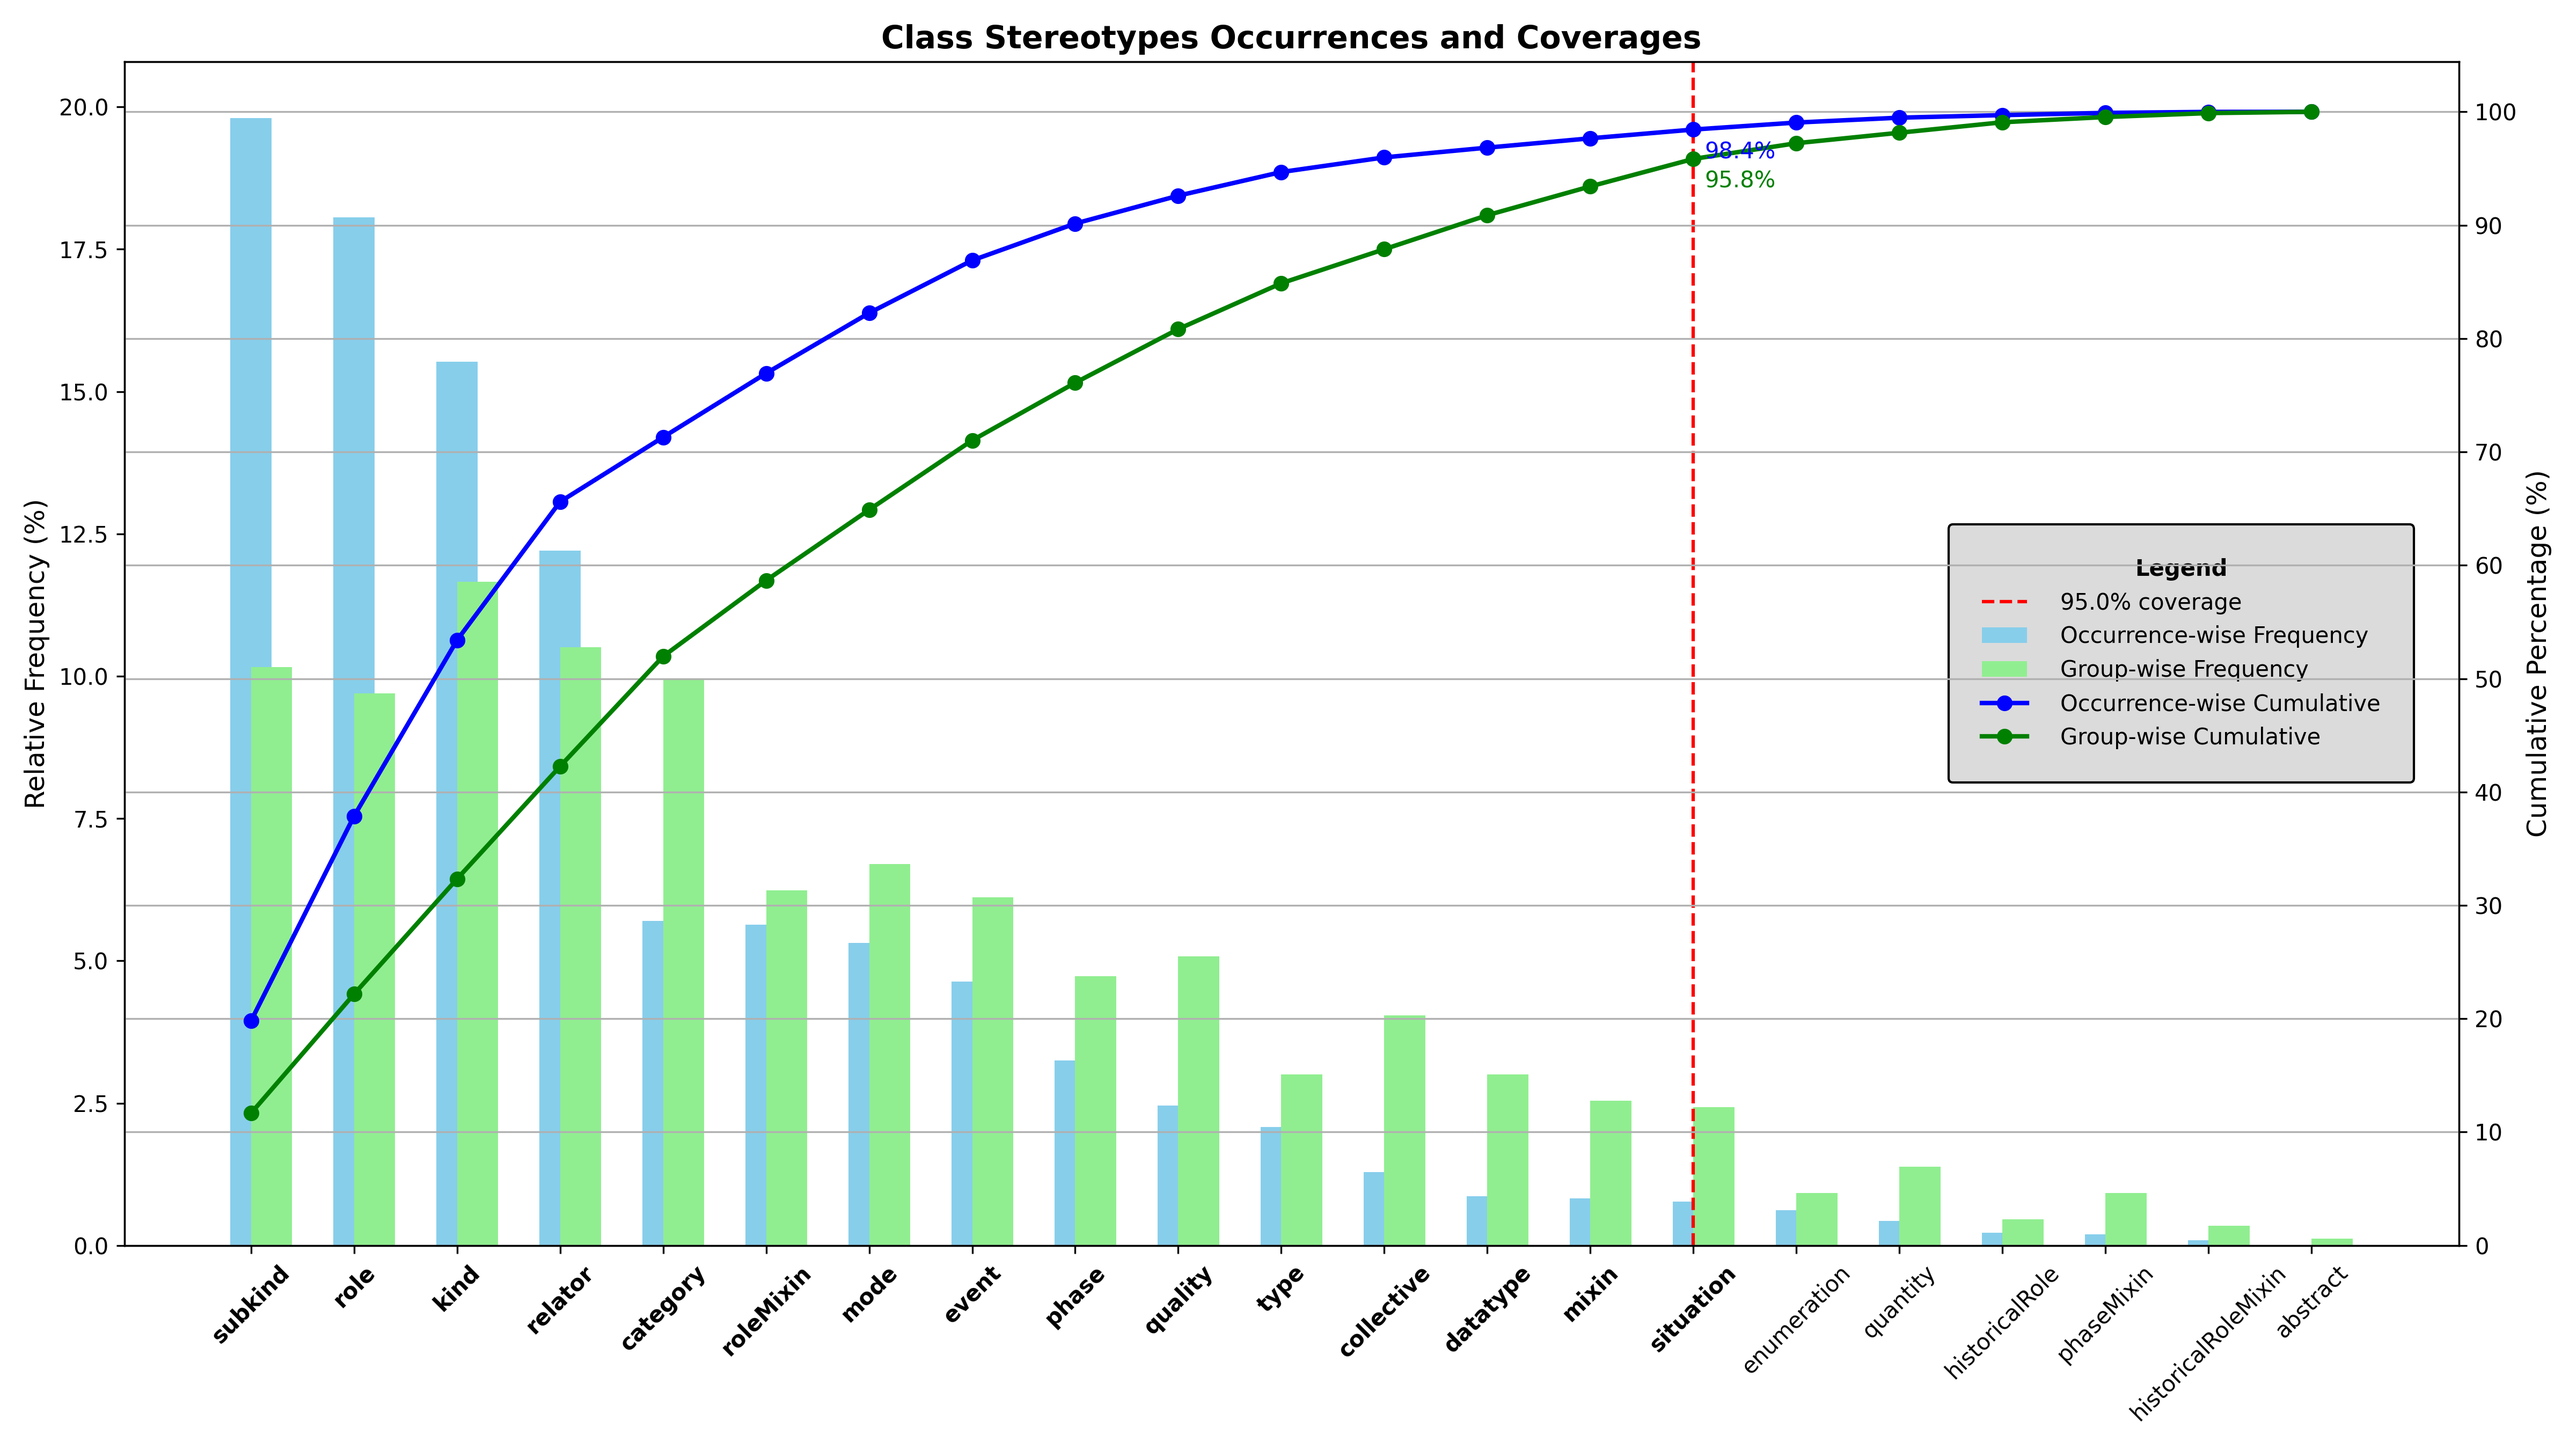
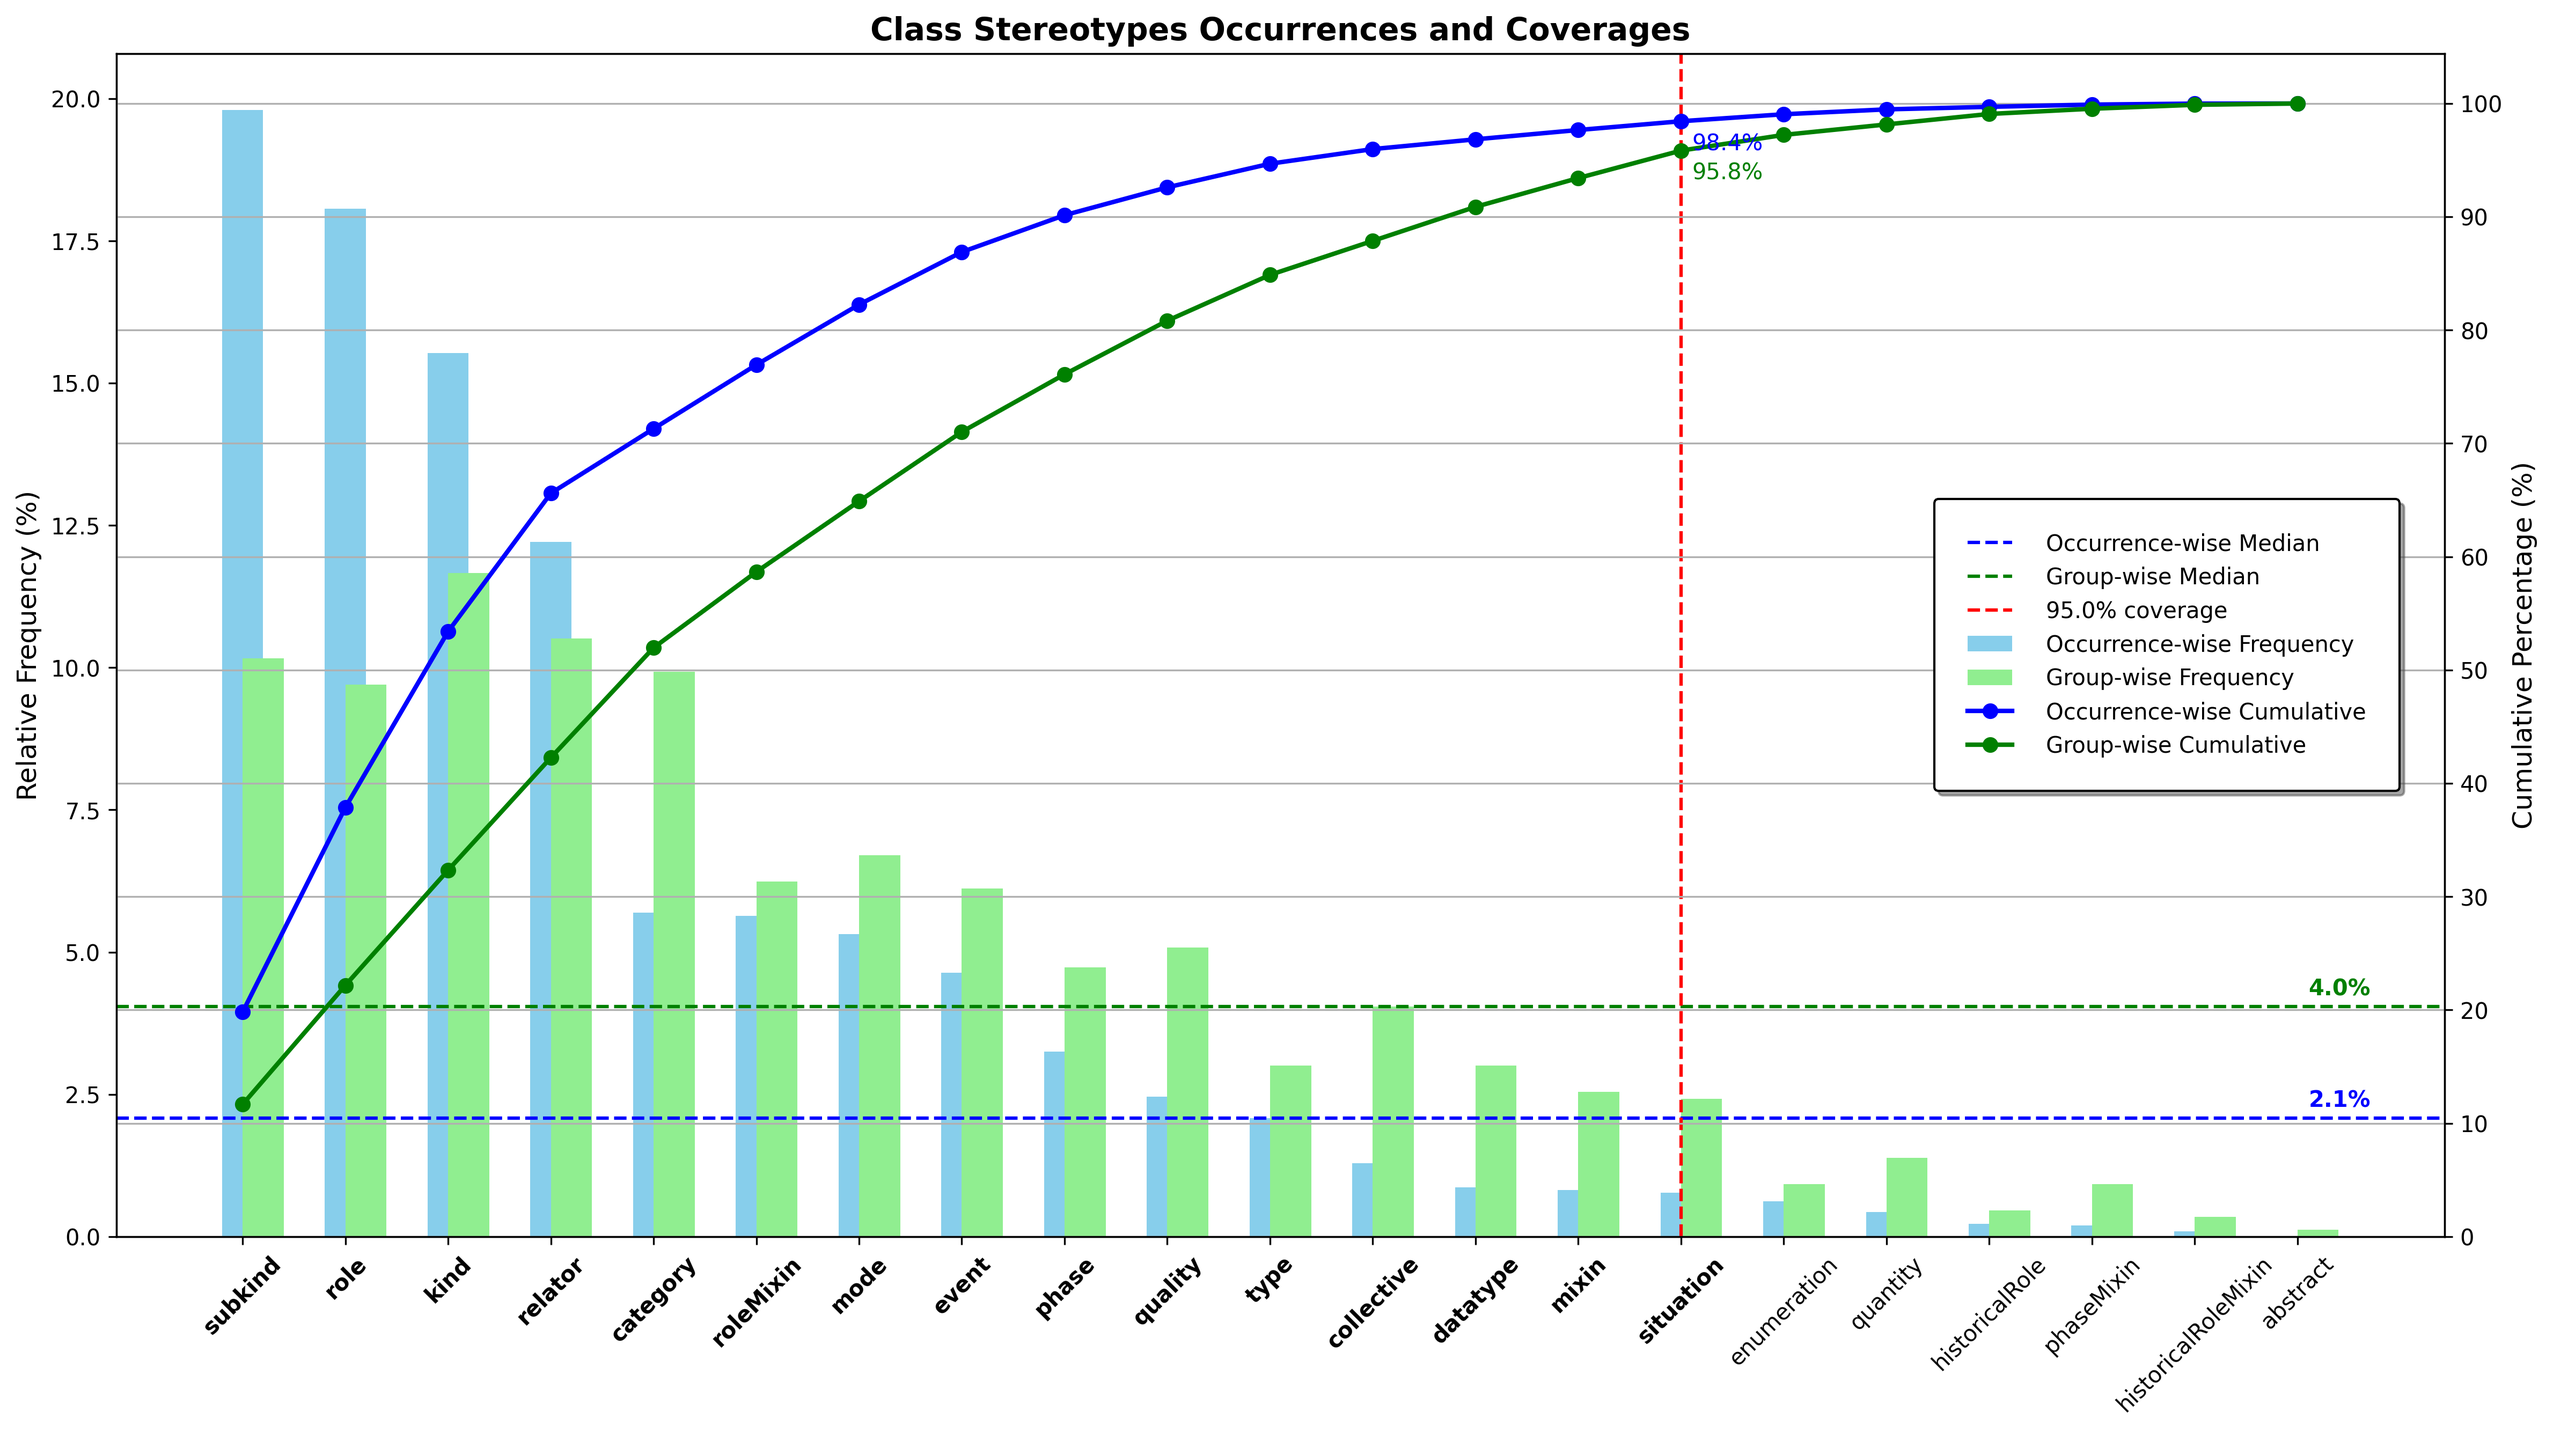
Medians being correctly plot.

diff --git a/src/visualization/pareto.py b/src/visualization/pareto.py
@@ -1,8 +1,8 @@
 import os
 
 import matplotlib.pyplot as plt
+import numpy as np
 import pandas as pd
-import seaborn as sns
 from loguru import logger
 from matplotlib.ticker import MultipleLocator
 
@@ -19,7 +19,8 @@ def plot_pareto(dataset, output_dir: str, plot_type: str) -> None:
     :param plot_type: Either "occurrence" or "group" to specify which type of data to plot.
     """
     # Create output directories
-    class_raw_out, class_clean_out, relation_raw_out, relation_clean_out = create_visualizations_out_dirs(output_dir, dataset.name)
+    class_raw_out, class_clean_out, relation_raw_out, relation_clean_out = create_visualizations_out_dirs(output_dir,
+                                                                                                          dataset.name)
 
     # Define a helper function to create Pareto charts for the specified data type
     def create_pareto_chart(data, title, output_path, plot_type):
@@ -45,7 +46,8 @@ def plot_pareto(dataset, output_dir: str, plot_type: str) -> None:
 
         # Bar plot for the selected frequency
         bar_width = 0.4
-        ax1.bar(data['Stereotype'], data['Percentage Frequency'], width=bar_width, label=bar_label, color=bar_color, zorder=1)
+        ax1.bar(data['Stereotype'], data['Percentage Frequency'], width=bar_width, label=bar_label, color=bar_color,
+                zorder=1)
 
         # Line plot for the cumulative percentage
         ax2 = ax1.twinx()  # Create a second y-axis
@@ -110,8 +112,6 @@ def plot_pareto(dataset, output_dir: str, plot_type: str) -> None:
                             'Pareto Chart: Relation Clean (Group-wise)', relation_clean_out, plot_type)
 
 
-
-
 def plot_pareto_combined(dataset, output_dir: str, coverage_limit: float = None) -> None:
     """
     Plot combined Pareto chart for occurrence-wise and group-wise stereotype frequencies from class and relation data
@@ -122,13 +122,16 @@ def plot_pareto_combined(dataset, output_dir: str, coverage_limit: float = None)
     :param coverage_limit: Optional coverage limit value (between 0 and 1) to draw a vertical line on the plot.
     """
     # Create output directories
-    class_raw_out, class_clean_out, relation_raw_out, relation_clean_out = create_visualizations_out_dirs(output_dir, dataset.name)
+    class_raw_out, class_clean_out, relation_raw_out, relation_clean_out = create_visualizations_out_dirs(output_dir,
+                                                                                                          dataset.name)
 
     # Define a helper function to create Pareto charts for a given dataset
     def create_pareto_chart(data_occurrence, data_groupwise, title, output_path, coverage_limit=None):
         # Calculate the percentage frequency for occurrence-wise and group-wise data
-        data_occurrence['Percentage Frequency'] = (data_occurrence['Frequency'] / data_occurrence['Frequency'].sum()) * 100
-        data_groupwise['Percentage Group-wise Frequency'] = (data_groupwise['Group-wise Frequency'] / data_groupwise['Group-wise Frequency'].sum()) * 100
+        data_occurrence['Percentage Frequency'] = (data_occurrence['Frequency'] / data_occurrence[
+            'Frequency'].sum()) * 100
+        data_groupwise['Percentage Group-wise Frequency'] = (data_groupwise['Group-wise Frequency'] / data_groupwise[
+            'Group-wise Frequency'].sum()) * 100
 
         # Calculate cumulative percentages for occurrence-wise and group-wise data
         data_occurrence['Cumulative Percentage'] = data_occurrence['Percentage Frequency'].cumsum()
@@ -154,8 +157,22 @@ def plot_pareto_combined(dataset, output_dir: str, coverage_limit: float = None)
         ax1.bar(data_groupwise['Stereotype'], data_groupwise['Percentage Group-wise Frequency'], width=bar_width,
                 label='Group-wise Frequency', align='edge', color='lightgreen', zorder=1)
 
+        # Calculate medians
+        median_occurrence = np.median(data_occurrence['Percentage Frequency'])
+        median_groupwise = np.median(data_groupwise['Percentage Group-wise Frequency'])
+
+        # Plot horizontal dashed lines for the medians (keep simple labels for the legend)
+        ax1.axhline(median_occurrence, color='blue', linestyle='--', linewidth=1.5, label='Occurrence-wise Median')
+        ax1.axhline(median_groupwise, color='green', linestyle='--', linewidth=1.5, label='Group-wise Median')
+
+        # Annotate the medians at the rightmost end of the lines
+        ax1.annotate(f'{median_occurrence:.1f}%', xy=(len(data_occurrence) - 1, median_occurrence), xytext=(5, 5),
+                     textcoords='offset points', color='blue', fontsize=10, fontweight='bold')
+
+        ax1.annotate(f'{median_groupwise:.1f}%', xy=(len(data_groupwise) - 1, median_groupwise), xytext=(5, 5),
+                     textcoords='offset points', color='green', fontsize=10, fontweight='bold')
+
         # Set labels and title
-        # ax1.set_xlabel('Stereotype', fontsize=12)
         ax1.set_ylabel('Relative Frequency (%)', fontsize=12)
         ax1.set_title(title, fontweight='bold', fontsize=14)
 
@@ -169,8 +186,8 @@ def plot_pareto_combined(dataset, output_dir: str, coverage_limit: float = None)
                  label='Occurrence-wise Cumulative', linestyle='-', linewidth=2, zorder=2)
 
         # Line plot for group-wise cumulative percentage
-        ax2.plot(range(len(data_groupwise)), data_groupwise['Group-wise Cumulative Percentage'], color='green', marker='o',
-                 label='Group-wise Cumulative', linestyle='-', linewidth=2, zorder=2)
+        ax2.plot(range(len(data_groupwise)), data_groupwise['Group-wise Cumulative Percentage'], color='green',
+                 marker='o', label='Group-wise Cumulative', linestyle='-', linewidth=2, zorder=2)
 
         if coverage_limit is not None:
             coverage_limit_percent = coverage_limit * 100
@@ -185,17 +202,13 @@ def plot_pareto_combined(dataset, output_dir: str, coverage_limit: float = None)
 
                     # Annotate the occurrence-wise cumulative percentage, automatically adjusted
                     ax2.annotate(f'{occurrence_cumulative:.1f}%', xy=(i, occurrence_cumulative),
-                                 textcoords='offset points', xytext=(5, -5),
-                                 # Offset 5 points to the right and 5 points down
-                                 ha='left', va='top', fontsize=10,
-                                 color='blue')  # Horizontal alignment to left, vertical to top
+                                 textcoords='offset points', xytext=(5, -5), ha='left', va='top', fontsize=10,
+                                 color='blue')
 
                     # Annotate the group-wise cumulative percentage, automatically adjusted
                     ax2.annotate(f'{groupwise_cumulative:.1f}%', xy=(i, groupwise_cumulative),
-                                 textcoords='offset points', xytext=(5, -5),
-                                 # Offset 5 points to the right and 5 points down
-                                 ha='left', va='top', fontsize=10,
-                                 color='green')  # Horizontal alignment to left, vertical to top
+                                 textcoords='offset points', xytext=(5, -5), ha='left', va='top', fontsize=10,
+                                 color='green')
 
                     # Apply bold font to x-axis labels that are on or to the left of the red line
                     bold_left_labels(ax1.get_xticklabels(), i)
@@ -209,10 +222,8 @@ def plot_pareto_combined(dataset, output_dir: str, coverage_limit: float = None)
         color_text(ax1.get_xticklabels())  # Color specific x-axis labels
 
         ax2.set_axisbelow(True)  # Ensure gridlines are below other plot elements
+        ax1.grid(False)
         ax2.grid(True, axis='y', which='major')
-
-        # Adjust gridline z-order to be lower than legends
-        ax2.grid(zorder=0)
 
         # Extract handles and labels from both axes
         handles1, labels1 = ax1.get_legend_handles_labels()  # Bar plot legend info (ax1)
@@ -222,24 +233,22 @@ def plot_pareto_combined(dataset, output_dir: str, coverage_limit: float = None)
         combined_handles = handles1 + handles2
         combined_labels = labels1 + labels2
 
-        # Create a single combined legend
-        combined_legend = ax1.legend(combined_handles, combined_labels, loc='center right', bbox_to_anchor=(1, 0.5),
-                                     frameon=True, facecolor='#dbdbdb', edgecolor='black', framealpha=1,
-                                     handletextpad=1.5, borderaxespad=2, borderpad=1.5, title="Legend")
+        combined_legend = ax2.legend(combined_handles, combined_labels, loc='center right', bbox_to_anchor=(1, 0.5),
+                                     frameon=True, facecolor='white', edgecolor='black', framealpha=1, shadow=True,
+                                     handletextpad=1.5, borderaxespad=2, borderpad=1.5)
 
         # Set the zorder of the combined legend higher than other elements
-        combined_legend.set_zorder(5)
+        combined_legend.set_zorder(10)
+        plt.draw()  # Force re-rendering of the plot, ensuring legend is drawn last
 
         # Customize the title: left-align and make it bold
-        combined_legend.get_title().set_ha('left')  # Left-align the title
         combined_legend.get_title().set_fontweight('bold')  # Make the title bold
-
-        # Apply color to legend texts
-        color_text(combined_legend.get_texts())
 
         # Save the plot
         fig_name = f"pareto_combined_cov_{coverage_limit}.png"
-        fig.savefig(os.path.join(output_path, fig_name), dpi=300)
+        # Ensure tight layout for the figure before saving
+        plt.tight_layout()
+        fig.savefig(os.path.join(output_path, fig_name), dpi=300, bbox_inches='tight')
         logger.success(f"Figure {fig_name} successfully saved in {output_path}.")
         plt.close(fig)
 

diff --git a/src/utils.py b/src/utils.py
@@ -2,18 +2,17 @@
 import gzip
 import os
 import pickle
+import re
 
 import pandas as pd
 from loguru import logger
-import re
-
 
 
 def color_text(texts):
     """Function to color specific texts for legends or axis labels."""
     for text in texts:
         if 'none' in text.get_text():
-            text.set_color('blue')
+            text.set_color('#91138d')
         elif 'other' in text.get_text():
             text.set_color('red')
 
@@ -63,7 +62,6 @@ def append_unique_preserving_order(existing_list, new_keys):
 
 
 def save_datasets(datasets, output_dir: str):
-
     # Save datasets to a file
     output_name = os.path.join(output_dir, "datasets.object.gz")
     with gzip.open(output_name, "wb") as file:
